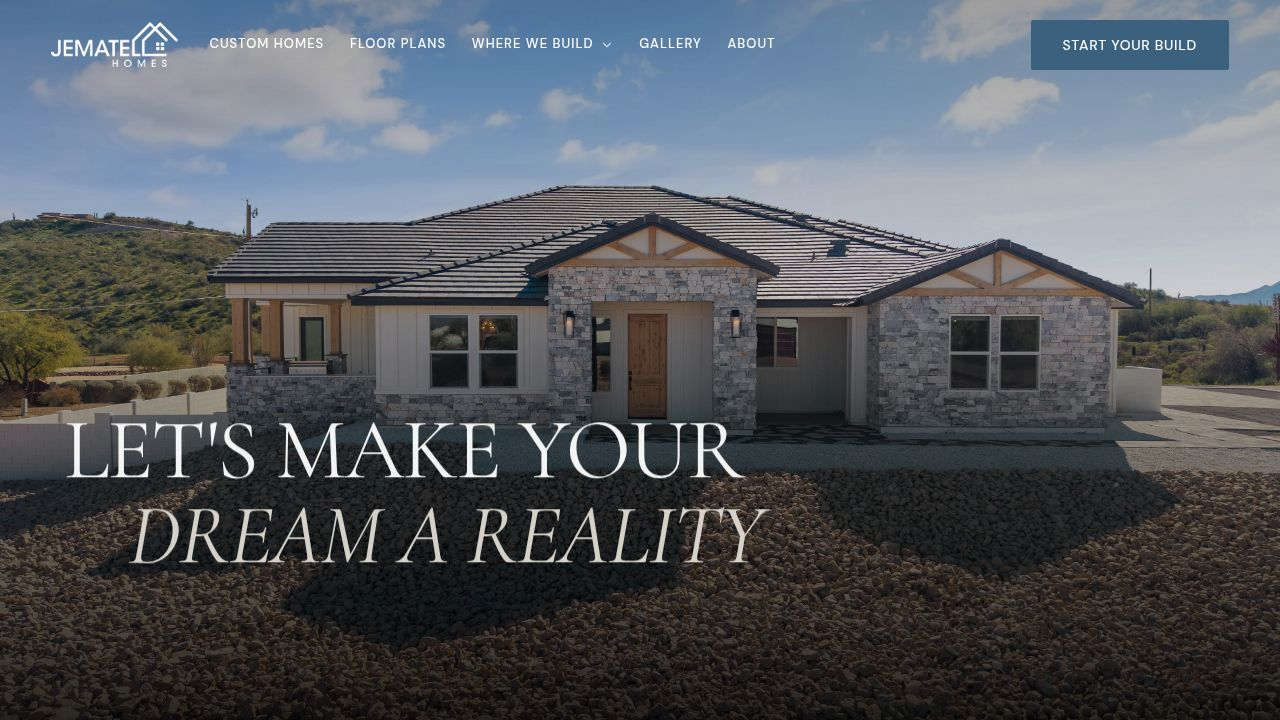
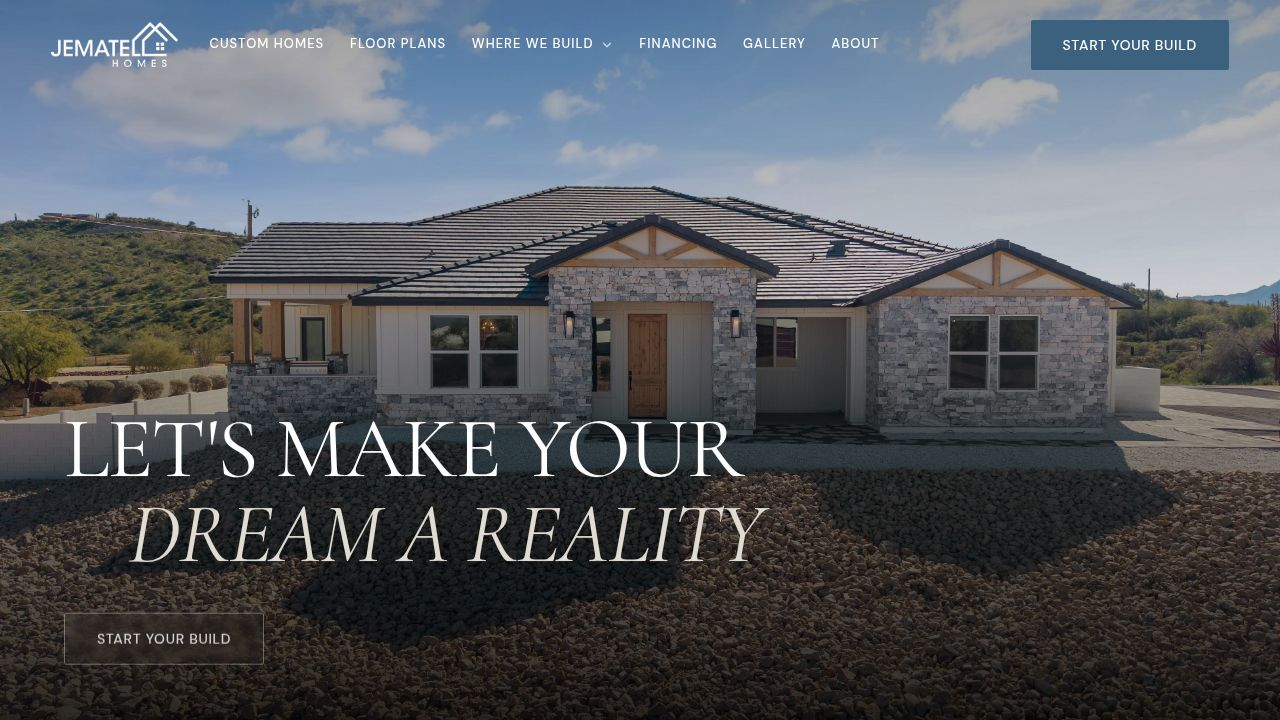
Add live mortgage rate fetching to the calculator
Implement a new API endpoint `/mortgage-rate` to fetch live mortgage rates from FRED, cache them for 24 hours, and update the construction loan calculator component to display the live rate.

Replit-Commit-Author: Agent
Replit-Commit-Session-Id: 95a73a34-f605-4aab-a7c4-22dfff8dd790
Replit-Commit-Checkpoint-Type: full_checkpoint
Replit-Commit-Event-Id: cb95de91-fe9d-4c93-aa23-f4727e086218
Replit-Commit-Screenshot-Url: https://storage.googleapis.com/screenshot-production-us-central1/aa8d3279-9be6-4eee-930b-09464981a909/95a73a34-f605-4aab-a7c4-22dfff8dd790/Fd5zBNG
Replit-Helium-Checkpoint-Created: true

diff --git a/artifacts/api-server/src/routes/mortgageRate.ts b/artifacts/api-server/src/routes/mortgageRate.ts
@@ -1,0 +1,64 @@
+import { Router } from "express";
+
+const router = Router();
+
+interface RateCache {
+  rate: number;
+  fetchedAt: number;
+}
+
+let cache: RateCache | null = null;
+const CACHE_TTL_MS = 24 * 60 * 60 * 1000;
+
+const FRED_SERIES = "MORTGAGE30US";
+
+async function fetchFredRate(): Promise<number> {
+  const key = process.env.FRED_API_KEY;
+  if (!key) throw new Error("FRED_API_KEY not set");
+
+  const url =
+    `https://api.stlouisfed.org/fred/series/observations` +
+    `?series_id=${FRED_SERIES}` +
+    `&api_key=${key}` +
+    `&sort_order=desc` +
+    `&limit=1` +
+    `&file_type=json`;
+
+  const res = await fetch(url);
+  if (!res.ok) throw new Error(`FRED returned ${res.status}`);
+
+  const json = (await res.json()) as {
+    observations: Array<{ value: string; date: string }>;
+  };
+
+  const obs = json.observations?.[0];
+  if (!obs) throw new Error("No observations returned from FRED");
+
+  const rate = parseFloat(obs.value);
+  if (!Number.isFinite(rate)) throw new Error(`Unexpected FRED value: ${obs.value}`);
+
+  return rate;
+}
+
+router.get("/mortgage-rate", async (_req, res) => {
+  const now = Date.now();
+
+  if (cache && now - cache.fetchedAt < CACHE_TTL_MS) {
+    res.json({ rate: cache.rate, source: "cache" });
+    return;
+  }
+
+  try {
+    const rate = await fetchFredRate();
+    cache = { rate, fetchedAt: now };
+    res.json({ rate, source: "fred" });
+  } catch (err) {
+    if (cache) {
+      res.json({ rate: cache.rate, source: "stale-cache" });
+    } else {
+      res.status(502).json({ error: "Unable to fetch mortgage rate", detail: String(err) });
+    }
+  }
+});
+
+export default router;

diff --git a/artifacts/jematell-homes/src/components/ConstructionLoanCalculator.tsx b/artifacts/jematell-homes/src/components/ConstructionLoanCalculator.tsx
@@ -210,6 +210,25 @@ export function ConstructionLoanCalculator() {
     }
   }, []);
 
+  // Fetch the live 30-yr fixed rate from the API server and apply it as the
+  // perm-rate default — but only when the user hasn't loaded a shared link
+  // that already contains a "pr" param (so shared estimates stay stable).
+  useEffect(() => {
+    const sp = new URLSearchParams(window.location.search);
+    if (sp.get("pr") !== null) return;
+    let cancelled = false;
+    fetch("/api/mortgage-rate")
+      .then((r) => r.json())
+      .then((data: { rate?: number }) => {
+        if (cancelled) return;
+        if (typeof data.rate === "number" && Number.isFinite(data.rate) && data.rate > 0) {
+          setPermRate(Math.round(data.rate * 8) / 8);
+        }
+      })
+      .catch(() => {});
+    return () => { cancelled = true; };
+  }, []);
+
   const onShare = () => {
     const p = new URLSearchParams();
     p.set("cost", String(Math.round(cost)));

diff --git a/artifacts/api-server/src/routes/index.ts b/artifacts/api-server/src/routes/index.ts
@@ -2,11 +2,13 @@ import { Router, type IRouter } from "express";
 import healthRouter from "./health";
 import faqsRouter from "./faqs";
 import contactRouter from "./contact";
+import mortgageRateRouter from "./mortgageRate";
 
 const router: IRouter = Router();
 
 router.use(healthRouter);
 router.use(faqsRouter);
 router.use(contactRouter);
+router.use(mortgageRateRouter);
 
 export default router;